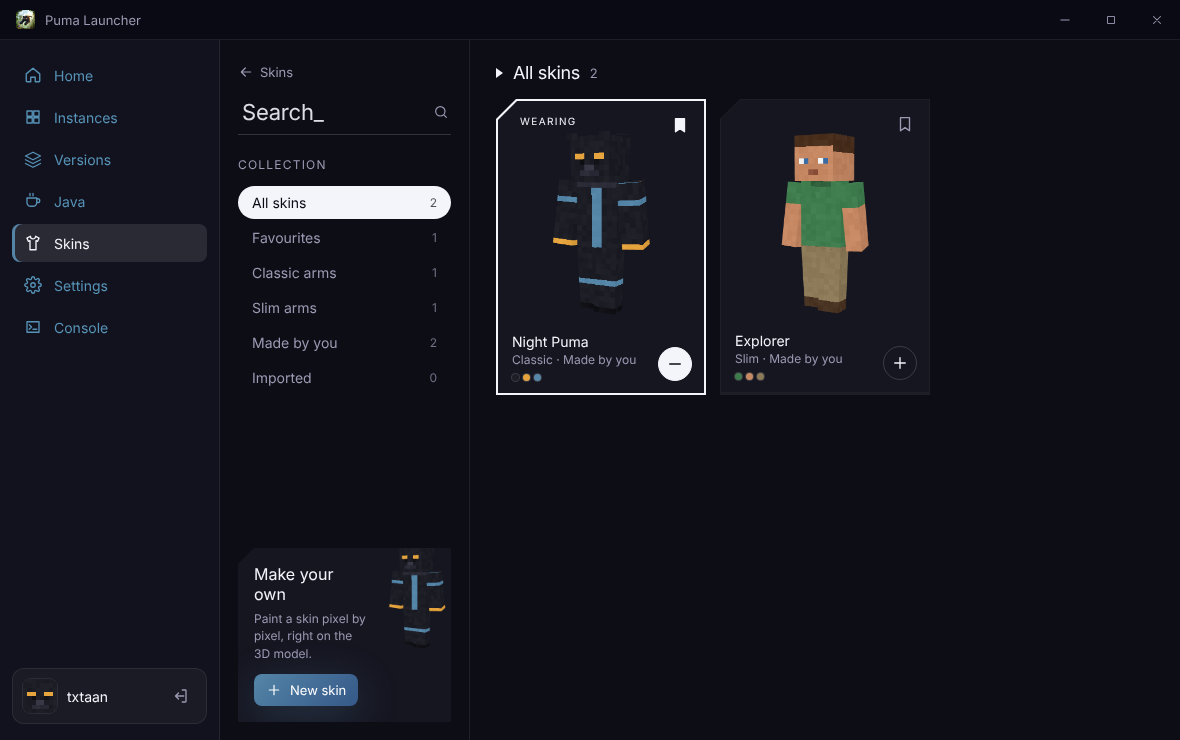
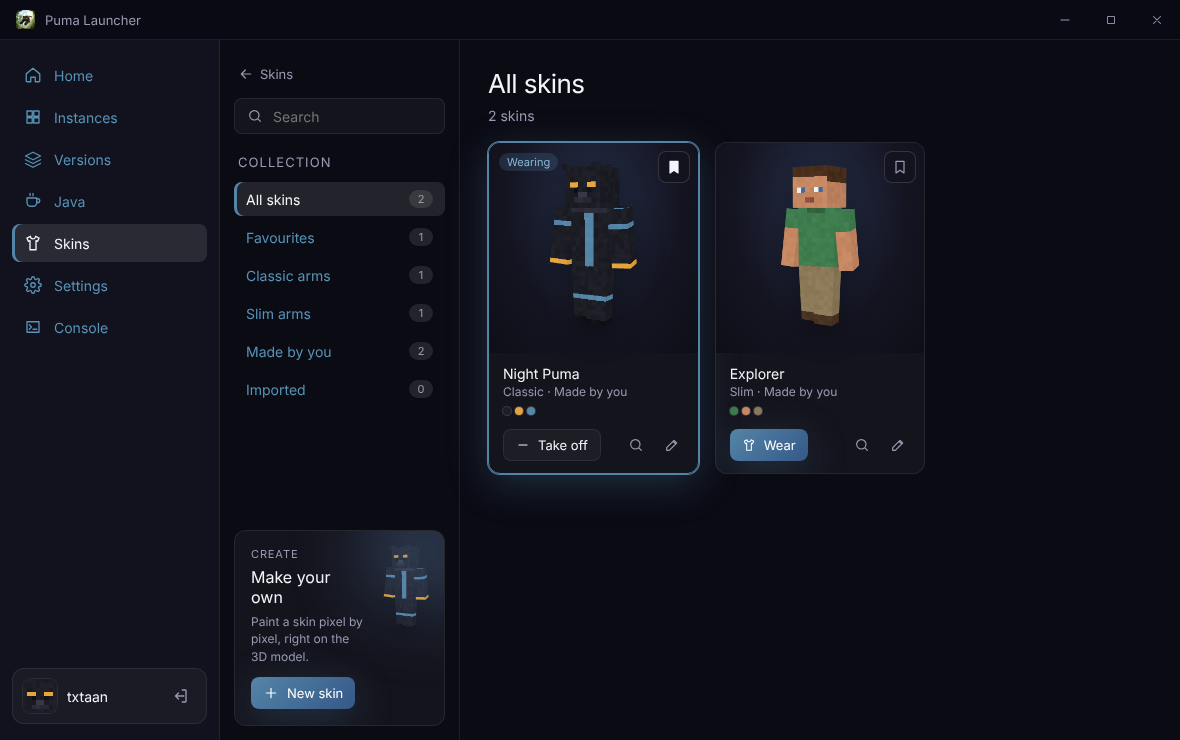
Restyle the wardrobe in the launcher's own style
The wardrobe now looks like the rest of the launcher instead of a shop
shelf: rounded cards like the instance cards (skin picture on a soft
stage, name, arm width and source, main colours, then Wear or Take off,
Inspect and Edit buttons), the standard search field, categories styled
like the sidebar with counts, and the "Make your own" card as a regular
card. The worn skin's card has the accent outline. The shop-shelf colour
tokens are gone.

Claude-Session: https://claude.ai/code/session_01DtT8h4zo1iGH8dAZUAaLin

diff --git a/src/renderer/src/styles/skins.css b/src/renderer/src/styles/skins.css
@@ -65,60 +65,43 @@
 .bento-ingame-icon { color: var(--accent-text); }
 .bento-ingame p { line-height: 1.55; max-width: 520px; }
 
-/* Wardrobe: a store shelf with filters on the left */
-.wardrobe { flex: 1; display: grid; grid-template-columns: 250px minmax(0, 1fr); background: var(--ds-bg); }
+/* Wardrobe: filters on the left, rounded skin cards on the right (like the instance cards) */
+.wardrobe { flex: 1; display: grid; grid-template-columns: 240px minmax(0, 1fr); }
 .wardrobe-side {
   position: sticky; top: 0; align-self: start; height: calc(100vh - var(--titlebar-h));
-  display: flex; flex-direction: column; gap: 14px; padding: 20px 18px 18px; border-right: 1px solid var(--border);
+  display: flex; flex-direction: column; gap: 12px; padding: 22px 14px 14px; border-right: 1px solid var(--border);
 }
-.ds-search { display: flex; align-items: center; gap: 8px; padding: 0 2px 8px; border-bottom: 1px solid var(--border-strong); color: var(--text-muted); }
-.ds-search input { flex: 1; min-width: 0; background: none; border: 0; outline: none; font-size: 22px; letter-spacing: -0.01em; color: var(--text); }
-.ds-search input::placeholder { color: var(--text); opacity: 0.9; }
-.ds-heading { margin-top: 8px; font-size: 12px; text-transform: uppercase; letter-spacing: 0.1em; color: var(--text-muted); }
-.ds-cats { display: flex; flex-direction: column; gap: 2px; }
-.ds-cats button { display: flex; align-items: center; justify-content: space-between; padding: 8px 14px; border-radius: 999px; text-align: left; color: var(--text-muted); transition: background 0.15s, color 0.15s; }
-.ds-cats button:hover { background: var(--surface-hover); color: var(--text); }
-.ds-cats button.active { background: var(--ds-pill); color: var(--ds-pill-text); }
-.ds-count { font-size: 12px; opacity: 0.7; }
-.ds-promo {
-  --notch: 16px;
-  position: relative; margin-top: auto; padding: 16px; overflow: hidden;
-  display: flex; flex-direction: column; align-items: flex-start; gap: 6px;
-  background: var(--ds-card); clip-path: polygon(var(--notch) 0, 100% 0, 100% 100%, 0 100%, 0 var(--notch));
-}
-.ds-promo-art { position: absolute; top: -10px; right: -6px; width: 80px; height: 120px; }
-.ds-promo strong { max-width: 62%; font-size: 16px; }
-.ds-promo p { max-width: 62%; font-size: 12px; line-height: 1.45; color: var(--text-muted); }
-.ds-promo .btn { margin-top: 6px; }
-.wardrobe-main { min-width: 0; padding: 22px 26px 32px; }
-.ds-title { display: flex; align-items: center; gap: 10px; margin-bottom: 16px; font-size: 18px; }
-.ds-marker { width: 0; height: 0; border-left: 7px solid var(--text); border-top: 5px solid transparent; border-bottom: 5px solid transparent; }
-.ds-title-count { font-size: 13px; color: var(--text-muted); }
-.ds-grid { display: grid; grid-template-columns: repeat(auto-fill, minmax(178px, 1fr)); gap: 14px; }
-/* Cards with a cut top-left corner; the frame is a second clipped layer, since a clip path also cuts borders. */
-.ds-card-frame { --notch: 20px; padding: 1px; background: var(--ds-frame); clip-path: polygon(var(--notch) 0, 100% 0, 100% 100%, 0 100%, 0 var(--notch)); transition: background 0.15s, transform 0.15s; }
-.ds-card-frame:hover { background: var(--border-strong); transform: translateY(-2px); }
-.ds-card-frame.worn { padding: 2px; background: var(--ds-frame-worn); }
-.ds-card {
-  position: relative; height: 292px; display: flex; flex-direction: column; cursor: pointer; outline: none;
-  background: var(--ds-card); clip-path: polygon(calc(var(--notch) - 1px) 0, 100% 0, 100% 100%, 0 100%, 0 calc(var(--notch) - 1px));
-  transition: background 0.15s;
-}
-.ds-card:hover, .ds-card:focus-visible { background: var(--ds-card-hover); }
-.ds-art { flex: 1; min-height: 0; width: 100%; object-fit: contain; padding: 22px 12px 2px; }
-.ds-art.placeholder { display: block; }
-.ds-worn { position: absolute; top: 14px; left: 22px; font-size: 10px; letter-spacing: 0.14em; text-transform: uppercase; }
-.ds-bookmark { position: absolute; top: 8px; right: 8px; z-index: 1; width: 32px; height: 32px; display: grid; place-items: center; border-radius: 8px; color: var(--text-muted); }
-.ds-bookmark:hover, .ds-bookmark.on { color: var(--text); }
-.ds-foot { display: flex; align-items: flex-end; gap: 8px; padding: 0 12px 12px 14px; }
-.ds-meta { flex: 1; min-width: 0; display: flex; flex-direction: column; gap: 2px; }
-.ds-meta strong { overflow: hidden; text-overflow: ellipsis; white-space: nowrap; }
-.ds-meta > span:not(.ds-dots) { font-size: 12px; color: var(--text-muted); overflow: hidden; text-overflow: ellipsis; white-space: nowrap; }
-.ds-dots { display: flex; gap: 4px; height: 7px; margin-top: 5px; }
-.ds-dots i { width: 7px; height: 7px; border-radius: 50%; box-shadow: 0 0 0 1px var(--border-strong); }
-.ds-equip { flex-shrink: 0; width: 34px; height: 34px; display: grid; place-items: center; border-radius: 50%; border: 1px solid var(--border-strong); color: var(--text); transition: background 0.15s, color 0.15s; }
-.ds-equip:hover:not(:disabled), .worn .ds-equip { background: var(--ds-pill); color: var(--ds-pill-text); border-color: var(--ds-pill); }
-.ds-empty { padding: 60px 20px; display: flex; flex-direction: column; align-items: center; gap: 10px; color: var(--text-muted); }
+.wardrobe-side .back-link { margin-left: 4px; }
+.wardrobe-search input { flex: 1; width: auto; min-width: 0; }
+.wardrobe-side .section-title { margin: 8px 0 0 4px; }
+.wardrobe-cats { display: flex; flex-direction: column; gap: 4px; }
+.wardrobe-cats .nav-item { justify-content: space-between; padding: 8px 12px; }
+.wardrobe-cats .nav-item .pill { min-width: 24px; justify-content: center; }
+.wardrobe-promo { margin-top: auto; padding: 16px; gap: 6px; }
+.wardrobe-promo strong { max-width: 64%; font-size: 16px; }
+.wardrobe-promo p { max-width: 64%; font-size: 12px; line-height: 1.45; }
+.wardrobe-promo .btn { margin-top: 6px; }
+.wardrobe-promo-art { position: absolute; top: 10px; right: 6px; width: 64px; height: 96px; filter: drop-shadow(0 8px 12px rgba(0, 0, 0, 0.3)); }
+.wardrobe-main { min-width: 0; padding: 28px; display: flex; flex-direction: column; gap: 16px; }
+.wardrobe-main .page-head { margin-bottom: 0; }
+.skin-grid { display: grid; grid-template-columns: repeat(auto-fill, minmax(200px, 1fr)); gap: 16px; }
+.skin-card { position: relative; overflow: hidden; display: flex; flex-direction: column; transition: border-color 0.15s, transform 0.15s, box-shadow 0.15s; }
+.skin-card:hover { border-color: var(--border-strong); transform: translateY(-2px); }
+.skin-card.worn { border-color: var(--accent); box-shadow: 0 0 0 1px var(--accent), var(--shadow-glow); }
+.skin-cover { position: relative; width: 100%; height: 210px; display: grid; place-items: center; background: var(--stage-bg); }
+.skin-cover img { height: 186px; width: auto; filter: drop-shadow(0 10px 14px rgba(0, 0, 0, 0.35)); transition: transform 0.2s; }
+.skin-card:hover .skin-cover img { transform: scale(1.04); }
+.skin-cover-placeholder { width: 60px; height: 150px; border-radius: var(--radius); background: var(--surface); }
+.skin-worn { position: absolute; top: 10px; left: 10px; }
+.skin-bookmark { position: absolute; top: 8px; right: 8px; background: var(--glass-bg); border: 1px solid var(--glass-border); backdrop-filter: blur(10px); }
+.skin-bookmark.on { color: var(--accent-text); }
+.skin-info { display: flex; flex-direction: column; gap: 2px; padding: 12px 14px 4px; }
+.skin-info strong { overflow: hidden; text-overflow: ellipsis; white-space: nowrap; }
+.skin-info .muted { font-size: 12px; }
+.skin-dots { display: flex; gap: 4px; height: 8px; margin-top: 6px; }
+.skin-dots i { width: 8px; height: 8px; border-radius: 50%; box-shadow: 0 0 0 1px var(--border-strong); }
+.skin-actions { display: flex; align-items: center; gap: 4px; padding: 10px 10px 12px 14px; }
+.skin-actions .btn { margin-right: auto; }
 
 /* Inspect: a list on the left; the model, its numbers and its colours on the right */
 .inspect { flex: 1; display: grid; grid-template-columns: 270px minmax(0, 1fr); }
@@ -243,7 +226,7 @@
   .bento-hero { grid-column: 1 / span 2; grid-row: auto; }
   .bento-wardrobe, .bento-create, .bento-ingame { grid-column: auto; grid-row: auto; }
   .bento-import, .bento-favs { grid-column: 1 / span 2; grid-row: auto; }
-  .wardrobe { grid-template-columns: 220px minmax(0, 1fr); }
+  .wardrobe { grid-template-columns: 210px minmax(0, 1fr); }
   .inspect { grid-template-columns: 230px minmax(0, 1fr); }
   .inspect-facts { grid-template-columns: 1fr; gap: 6px; }
   .itable-row.palette { grid-template-columns: 18px 120px 110px minmax(0, 1fr); }

diff --git a/src/renderer/src/skins/SkinWardrobe.tsx b/src/renderer/src/skins/SkinWardrobe.tsx
@@ -18,7 +18,7 @@ const CATEGORIES: { id: Category; label: MessageKey; test: (s: SkinEntry) => boo
   { id: 'imported', label: 'skins.cat.imported', test: (s) => s.source !== 'created' }
 ]
 
-/** Every skin, as a store shelf: filters on the left, cards on the right. */
+/** Every skin: filters on the left, cards on the right. */
 export function SkinWardrobe({ go, actions }: { go: (v: SkinView) => void; actions: SkinActions }) {
   const { skins, t } = useStore()
   const [category, setCategory] = useState<Category>('all')
@@ -37,23 +37,24 @@ export function SkinWardrobe({ go, actions }: { go: (v: SkinView) => void; actio
         <button className="back-link" onClick={() => go({ kind: 'home' })}>
           <Icon name="arrowLeft" size={16} /> {t('skins.title')}
         </button>
-        <label className="ds-search">
-          <input value={query} placeholder={`${t('skins.search')}_`} aria-label={t('skins.search')} onChange={(e) => setQuery(e.target.value)} />
+        <label className="search wardrobe-search">
           <Icon name="search" size={16} />
+          <input value={query} placeholder={t('skins.search')} aria-label={t('skins.search')} onChange={(e) => setQuery(e.target.value)} />
         </label>
-        <h3 className="ds-heading">{t('skins.collection')}</h3>
-        <nav className="ds-cats">
+        <h3 className="section-title">{t('skins.collection')}</h3>
+        <nav className="wardrobe-cats">
           {CATEGORIES.map((c) => (
-            <button key={c.id} className={c.id === category ? 'active' : ''} onClick={() => setCategory(c.id)}>
+            <button key={c.id} className={`nav-item ${c.id === category ? 'active' : ''}`} onClick={() => setCategory(c.id)}>
               <span>{t(c.label)}</span>
-              <span className="ds-count">{list.filter(c.test).length}</span>
+              <span className="pill">{list.filter(c.test).length}</span>
             </button>
           ))}
         </nav>
-        <div className="ds-promo">
-          <SkinThumb skin={templateSkin('puma')} className="ds-promo-art" />
+        <div className="card news-card release wardrobe-promo">
+          <SkinThumb skin={templateSkin('puma')} className="wardrobe-promo-art" />
+          <span className="badge">{t('skins.create')}</span>
           <strong>{t('skins.promoTitle')}</strong>
-          <p>{t('skins.promoText')}</p>
+          <p className="muted">{t('skins.promoText')}</p>
           <button className="btn btn-primary btn-sm" onClick={() => go({ kind: 'editor', template: 'puma', back: here })}>
             <Icon name="plus" size={16} /> {t('skins.newSkin')}
           </button>
@@ -61,19 +62,28 @@ export function SkinWardrobe({ go, actions }: { go: (v: SkinView) => void; actio
       </aside>
 
       <section className="wardrobe-main">
-        <h2 className="ds-title">
-          <span className="ds-marker" aria-hidden />
-          {t(active.label)}
-          <span className="ds-title-count">{shown.length}</span>
-        </h2>
+        <div className="page-head">
+          <div>
+            <h1>{t(active.label)}</h1>
+            <p className="muted">{shown.length === 1 ? t('skins.countOne') : t('skins.count', { count: shown.length })}</p>
+          </div>
+        </div>
         {shown.length ? (
-          <div className="ds-grid">
+          <div className="skin-grid">
             {shown.map((s) => (
-              <WardrobeCard key={s.id} skin={s} worn={s.id === actions.wornId} busy={actions.busy === s.id} actions={actions} onOpen={() => go({ kind: 'inspect', id: s.id })} />
+              <SkinCard
+                key={s.id}
+                skin={s}
+                worn={s.id === actions.wornId}
+                busy={actions.busy === s.id}
+                actions={actions}
+                onOpen={() => go({ kind: 'inspect', id: s.id })}
+                onEdit={() => go({ kind: 'editor', id: s.id, back: here })}
+              />
             ))}
           </div>
         ) : (
-          <div className="ds-empty">
+          <div className="card empty">
             <Icon name="shirt" size={28} />
             <p>{q ? t('skins.noResults', { query }) : t('skins.empty')}</p>
           </div>
@@ -83,51 +93,59 @@ export function SkinWardrobe({ go, actions }: { go: (v: SkinView) => void; actio
   )
 }
 
-function WardrobeCard({ skin, worn, busy, actions, onOpen }: { skin: SkinEntry; worn: boolean; busy: boolean; actions: SkinActions; onOpen: () => void }) {
+function SkinCard({
+  skin,
+  worn,
+  busy,
+  actions,
+  onOpen,
+  onEdit
+}: {
+  skin: SkinEntry
+  worn: boolean
+  busy: boolean
+  actions: SkinActions
+  onOpen: () => void
+  onEdit: () => void
+}) {
   const { t } = useStore()
   const thumb = useThumbnail(skin)
   return (
-    <div className={`ds-card-frame ${worn ? 'worn' : ''}`}>
-      <article className="ds-card" role="button" tabIndex={0} onClick={onOpen} onKeyDown={(e) => e.key === 'Enter' && onOpen()}>
-        {worn && <span className="ds-worn">{t('skins.worn')}</span>}
-        <button
-          className={`ds-bookmark ${skin.favorite ? 'on' : ''}`}
-          aria-label={t(skin.favorite ? 'skins.unbookmark' : 'skins.bookmark')}
-          title={t(skin.favorite ? 'skins.unbookmark' : 'skins.bookmark')}
-          onClick={(e) => {
-            e.stopPropagation()
-            void actions.toggleFavorite(skin)
-          }}
-        >
-          <Icon name={skin.favorite ? 'bookmarkFilled' : 'bookmark'} size={18} />
+    <article className={`card skin-card ${worn ? 'worn' : ''}`}>
+      <button className="skin-cover" aria-label={`${t('skins.inspect')}: ${skin.name}`} onClick={onOpen}>
+        {thumb ? <img src={thumb.url} alt="" draggable={false} /> : <span className="skin-cover-placeholder" />}
+        {worn && <span className="pill pill-accent skin-worn">{t('skins.worn')}</span>}
+      </button>
+      <button
+        className={`icon-btn skin-bookmark ${skin.favorite ? 'on' : ''}`}
+        aria-label={t(skin.favorite ? 'skins.unbookmark' : 'skins.bookmark')}
+        title={t(skin.favorite ? 'skins.unbookmark' : 'skins.bookmark')}
+        onClick={() => void actions.toggleFavorite(skin)}
+      >
+        <Icon name={skin.favorite ? 'bookmarkFilled' : 'bookmark'} size={16} />
+      </button>
+      <div className="skin-info">
+        <strong title={skin.name}>{skin.name}</strong>
+        <span className="muted">
+          {t(MODEL_LABEL[skin.model])} · {t(SOURCE_LABEL[skin.source])}
+        </span>
+        <span className="skin-dots" aria-hidden>
+          {(thumb?.colors ?? []).map((c) => (
+            <i key={c} style={{ background: c }} />
+          ))}
+        </span>
+      </div>
+      <div className="skin-actions">
+        <button className={`btn btn-sm ${worn ? 'btn-ghost' : 'btn-primary'}`} disabled={busy} onClick={() => void actions.equip(worn ? null : skin)}>
+          {busy ? <span className="spinner sm" /> : <Icon name={worn ? 'minus' : 'shirt'} size={14} />} {t(worn ? 'skins.takeOff' : 'skins.wear')}
         </button>
-        {thumb ? <img className="ds-art" src={thumb.url} alt="" draggable={false} /> : <span className="ds-art placeholder" />}
-        <div className="ds-foot">
-          <div className="ds-meta">
-            <strong>{skin.name}</strong>
-            <span>
-              {t(MODEL_LABEL[skin.model])} · {t(SOURCE_LABEL[skin.source])}
-            </span>
-            <span className="ds-dots" aria-hidden>
-              {(thumb?.colors ?? []).map((c) => (
-                <i key={c} style={{ background: c }} />
-              ))}
-            </span>
-          </div>
-          <button
-            className="ds-equip"
-            disabled={busy}
-            aria-label={t(worn ? 'skins.takeOff' : 'skins.wear')}
-            title={t(worn ? 'skins.takeOff' : 'skins.wear')}
-            onClick={(e) => {
-              e.stopPropagation()
-              void actions.equip(worn ? null : skin)
-            }}
-          >
-            {busy ? <span className="spinner sm" /> : <Icon name={worn ? 'minus' : 'plus'} size={18} />}
-          </button>
-        </div>
-      </article>
-    </div>
+        <button className="icon-btn" title={t('skins.inspect')} aria-label={t('skins.inspect')} onClick={onOpen}>
+          <Icon name="search" size={16} />
+        </button>
+        <button className="icon-btn" title={t('skins.edit')} aria-label={t('skins.edit')} onClick={onEdit}>
+          <Icon name="pencil" size={16} />
+        </button>
+      </div>
+    </article>
   )
 }

diff --git a/src/renderer/src/styles/theme.css b/src/renderer/src/styles/theme.css
@@ -75,14 +75,7 @@
   --snapshot-glow: #355888;
   --recent-icon-bg: var(--avatar-bg);
 
-  /* Skins: the wardrobe shelf (dark cards, white highlights) and the 3D stages */
-  --ds-bg: #0d0d16;
-  --ds-card: #161621;
-  --ds-card-hover: #1c1c29;
-  --ds-frame: rgba(255, 255, 255, 0.07);
-  --ds-frame-worn: #f4f4fb;
-  --ds-pill: #f4f4fb;
-  --ds-pill-text: #0b0b14;
+  /* Skins: behind the 3D models and skin pictures */
   --stage-bg: radial-gradient(ellipse at 50% 30%, #25304a 0%, #151522 58%, #0e0e17 100%);
 
   --radius-s: 8px;
@@ -147,13 +140,6 @@
   --console-bg: rgba(255, 255, 255, 0.97);
   --log-text: #3b3852;
 
-  --ds-bg: #e9e9e9;
-  --ds-card: #f7f7f7;
-  --ds-card-hover: #ffffff;
-  --ds-frame: rgba(24, 20, 56, 0.1);
-  --ds-frame-worn: #17142b;
-  --ds-pill: #17142b;
-  --ds-pill-text: #ffffff;
   --stage-bg: radial-gradient(ellipse at 50% 30%, #fff7e8 0%, #f0e8dc 55%, #e3ded6 100%);
 
   --shadow: 0 10px 30px rgba(24, 20, 56, 0.12);
